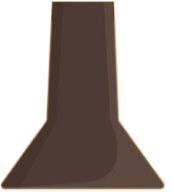
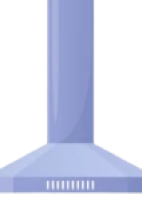
add interier for kitchen and change buttons

diff --git a/scripts/shop.js b/scripts/shop.js
@@ -7,7 +7,7 @@ const wrapper = document.querySelector('#canvas-container');
 
 wrapper.hoverCursor = 'pointer';
 
-// Створюємо канвас для магазину
+
 const canvas = new fabric.Canvas('s', { 
     width: 1000,
     height: 700,
@@ -15,7 +15,6 @@ const canvas = new fabric.Canvas('s', {
 });
 
 let cartMoney = {
-  // totalPrice: 0,
   totalCrystals: 0,
   totalCoins: 0,
 };
@@ -58,17 +57,15 @@ export function startCart(){
     }
   });
 
-  // Створюємо об'єкт корзини
+
   canvas.add(cartImage);  
 
   canvas.bringToFront(cartImage);
-
-  // Додаємо текстовий елемент для відображення вартості кошика в заголовку
   
   canvas.add(cartHeader);
 
+
   cartMoney = {
-    // totalPrice: 0,
     totalCrystals: 0,
     totalCoins: 0,
   };
@@ -95,7 +92,7 @@ let ShopFoods = [
   {img: "./img/eat/soup.png", price: 8, valute: "coins", top: 450, left: 620, energyType: "food", energy: 20, type: "hot"}
 ];
 
-// Створюємо об'єкт кошика
+// Створення об'єкт кошика
 
 ShopFoods.forEach(elem => {
   fabric.Image.fromURL(elem.img, (img) => {
@@ -325,8 +322,8 @@ export function discardInCart(){
   });
   canvas.add(soupPriceText);
 
+
 function updateCartTotalPrice(cartMoney) {
-  // Оновлюємо текстовий елемент з ціною у заголовку кошика
   cartHeader.set({
     text: `Cart: ${cartMoney.totalCoins} coins, ${cartMoney.totalCrystals} crystals`
   });
@@ -335,51 +332,5 @@ function updateCartTotalPrice(cartMoney) {
 
 
 
-
-
-// function updateCartTotalPrice() {
-//   cartMoney.totalPrice = 0;
-//   cartMoney.totalCrystals = 0;
-//   cartMoney.totalCoins = 0;
-
-//   // Перебираємо всі продукти на канвасі і додаємо ціну продуктів, які знаходяться в корзині, до загальної суми у кошику
-//   canvas.getObjects().forEach(function(img) {
-//     if (img.inCart) {
-//       if (img.priceText.includes('crystals')) {
-//         cartMoney.totalCrystals += parseInt(img.priceText);
-//       } else if (img.priceText.includes('coins')) {
-//         cartMoney.totalCoins += parseInt(img.priceText);
-//       }
-//     }
-//   });
-
-//   // Оновлюємо текстовий елемент з ціною у заголовку кошика
-//   cartHeader.set({
-//     text: `Cart: ${cart.totalCoins} coins, ${cart.totalCrystals} crystals`
-//   });
-//   canvas.renderAll();
-// }
-
-
-// foods.forEach((food) => {
-//   const img = new fabric.Image(food.img, {
-//     left: food.left,
-//     top: food.top,
-//     inCart: false,
-//     price: food.priceText
-//   });
-
-//   img.on('moved', () => {
-//     if (canvas.getActiveObject() === cartImage) {
-//       cartMoney.totalPrice += parseInt(food.priceText);
-//             updateCartTotalPrice();
-//       cartHeader.set({
-//         text: `Cart: ${cartMoney.totalCoins} coins, ${cartMoney.totalCrystals} crystals ($${cartMoney.totalPrice})`,
-//       });
-//       canvas.renderAll();
-//     }
-//   });
-//   canvas.add(img);
-// });
 
 

diff --git a/index.html b/index.html
@@ -72,6 +72,7 @@
       </div>      
       <div id="instruction" class="instruction">
           <h1 class="name">INSTRUCTION FOR GAME</h1>
+          <p class="discription">Bob has 4 rooms: playroom, kitchen, bedroom, bathroom. In each of them, you have the opportunity to receive a prize in the form of coins and crystals, taking care of Bob. With the coins and crystals you receive, you can buy food and interior items for Bob. Also, Bob knows how to repeat words after you, react to touches, namely: if you touch different parts of Bob's body, he will react differently, and if you quickly tap Bob's stomach 5 times, he will has been tear into pieces 😱. Also play games with Bob and get coins and crystals for it. You will find all sections with the buttons on the game's main panels.</p>
         <button id="startAudioModule">×</button>
       </div>
     <!-- <button id="toStore">Go to Store</button>

diff --git a/scripts/store/Store.js b/scripts/store/Store.js
@@ -64,9 +64,16 @@ export default class Store {
       const itemDiv = item.itemDiv;
       if (item.currentVersionIndex < item.versions.length) {
         const buyButton = document.createElement("button");
+        buyButton.style.position = 'absolute';
+        buyButton.style.left = '70%';
+        buyButton.style.top = '85%';
+        buyButton.style.transform = 'translate(-80%, -50%)';
         buyButton.style.backgroundColor = 'transparent';
-        buyButton.style.color = 'grey';
-        buyButton.style.border = 'solid white 1px';
+        buyButton.style.width = '85px';
+        buyButton.style.color = 'white';
+        buyButton.style.fontSize = '15px';
+        buyButton.style.fontWeight = '900';
+        buyButton.style.border = 'solid white 5px';
         buyButton.textContent = `${item.basePrice} 🪙`;
         buyButton.addEventListener("click", () => {
           this.buyItem(item);

diff --git a/scripts/store/main.js b/scripts/store/main.js
@@ -63,12 +63,12 @@ const lamps = new Item(1, "lamps", 2, { x: 400, y: 25, }, [
     { name: "lamps_2", image: "img/eat/lamps_2.png" },
     { name: "lamps_3", image: "img/eat/lamps_3.png" },
 ]);
-const refrigerator = new Item(2, "refrigerator", 2, { x: -5, y: 190}, [
+const refrigerator = new Item(2, "refrigerator", 2, { x: 0, y: 190}, [
     { name: "refrigerator_1.png", image: "img/eat/refrigerator_1.png" },
     { name: "refrigerator_2", image: "img/eat/refrigerator_2.png" },
     { name: "refrigerator_3", image: "img/eat/refrigerator_3.png" },
 ])
-const hood = new Item(3, "hood", 2, { x: 582, y: 145 }, [
+const hood = new Item(3, "hood", 2, { x: 576, y: 145 }, [
     { name: "hood_1", image: "img/eat/hood_1.png" },
     { name: "hood_2", image: "img/eat/hood_2.png" },
     { name: "hood_3", image: "img/eat/hood_3.png" },

diff --git a/styles/instruction.css b/styles/instruction.css
@@ -26,7 +26,6 @@
     border: 5px solid white;
     background-color:rgba(255, 255, 255, 0.5);
     animation: float 2s infinite ease-in-out;
-
   }
 
   @keyframes float {
@@ -64,6 +63,16 @@
     margin-top: 70px;
     text-align: center;
     color: blueviolet;
+  }
+
+  #instruction .discription{
+    font-size: 32px;
+    font-weight: bold;
+    color:blueviolet;
+    padding-left: 10px;
+    padding-right: 10px;
+    padding-bottom: 10px;
+    text-align: justify;
   }
 
   

diff --git a/scripts/kitchen.js b/scripts/kitchen.js
@@ -80,12 +80,12 @@ let addFoods = () => {
   let y = 430;
   if(foods.length>0){
     if(foods.length < 3){
-      for (let i = 0; i < foods.length; i++) {
+      for (let i = 0; i < foods.length; i+=1) {
         createFood(foods[i], x, y, i, foods);
         x += spacing;
       }
     } else{
-      for (let i = 0; i < 3; i++) {
+      for (let i = 0; i < 3; i+=1) {
         createFood(foods[i], x, y, i, foods);
         x += spacing;
       }

diff --git a/scripts/buttonsControl.js b/scripts/buttonsControl.js
@@ -103,7 +103,7 @@ const rooms = {
 
     kitchenOut() {
         kitchenRoom.style.display = 'none';
-        kitchenCanvas.style.display = 'none'; // Uncaught TypeError: Cannot read properties of null (reading 'style')
+        kitchenCanvas.style.display = 'none'; 
         interior[1].style.display = 'none';
         interiorKitchen.style.display = 'none';
         textPosition[1].style.display = 'none';
